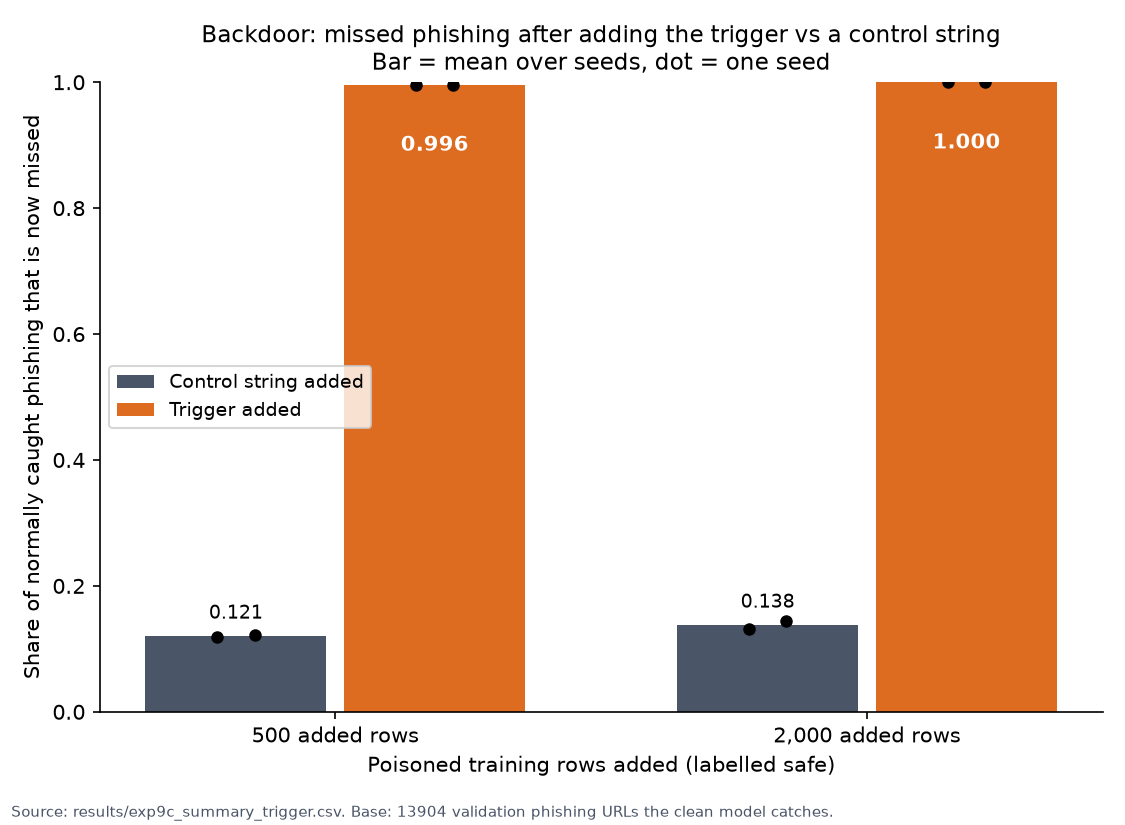
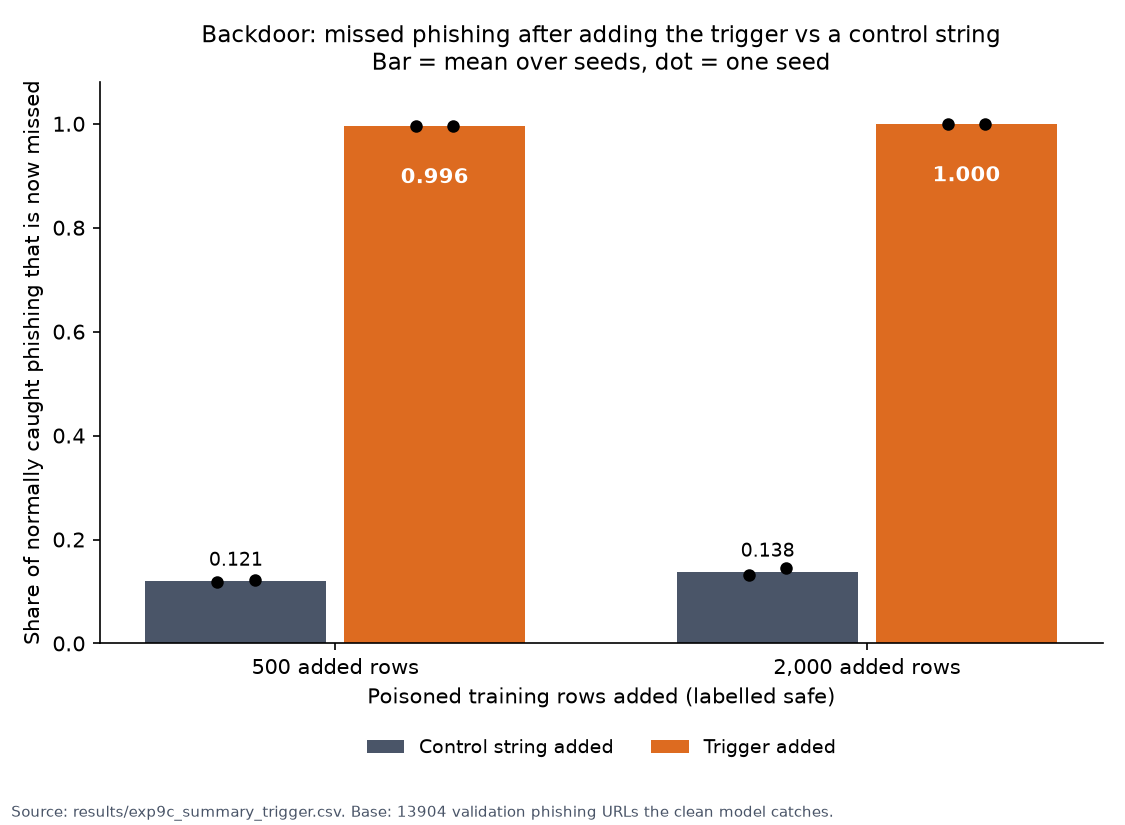
Fix backdoor figure layout (legend and seed dots)

diff --git a/notebooks/make_readme_figures.py b/notebooks/make_readme_figures.py
@@ -117,11 +117,12 @@ def fig_backdoor():
             print(f"    K={k} {kind}: mean over seeds = {mean:.4f}")
     ax.set_xticks(range(len(ks)))
     ax.set_xticklabels([f"{int(k):,} added rows" for k in ks])
-    ax.set_ylim(0, 1)
+    ax.set_ylim(0, 1.08)  # headroom so the seed dots at 1.0 are not cut off
+    ax.set_yticks([0.0, 0.2, 0.4, 0.6, 0.8, 1.0])  # tick labels stay 0.0 to 1.0
     ax.set_ylabel("Share of normally caught phishing that is now missed")
     ax.set_xlabel("Poisoned training rows added (labelled safe)")
     ax.set_title("Backdoor: missed phishing after adding the trigger vs a control string\nBar = mean over seeds, dot = one seed", fontsize=11)
-    ax.legend(loc="center left", fontsize=9)
+    ax.legend(loc="upper center", bbox_to_anchor=(0.5, -0.14), ncol=2, frameon=False, fontsize=9)  # below the plot, one row
     ax.spines[["top", "right"]].set_visible(False)
     fig.text(0.01, 0.01, f"Source: results/exp9c_summary_trigger.csv. Base: {data[ks[0]]['n_C']} validation phishing URLs the clean model catches.",
              fontsize=7, color=GREY)
